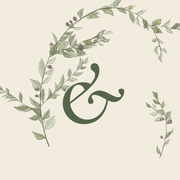
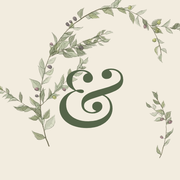
Matrimonio: icona Ghirlanda con & classica
Claude-Session: https://claude.ai/code/session_01PeGwiVQ1FTNgGqKk5br4XB

Changed region(s): [[0.3056, 0.3333, 0.6944, 0.7222]]

diff --git a/matrimonio/index.html b/matrimonio/index.html
@@ -8,10 +8,10 @@
 <meta name="apple-mobile-web-app-title" content="Matrimonio">
 <meta name="apple-mobile-web-app-status-bar-style" content="default">
 <meta name="theme-color" content="#F2ECDF">
-<link rel="apple-touch-icon" href="apple-touch-icon.png?v=3">
-<link rel="icon" type="image/png" href="icon-192.png?v=3">
+<link rel="apple-touch-icon" href="apple-touch-icon.png?v=4">
+<link rel="icon" type="image/png" href="icon-192.png?v=4">
 <link rel="manifest" href="manifest.webmanifest">
-<meta name="app-version" content="20261116121500">
+<meta name="app-version" content="20261116122500">
 <title>Conti del Matrimonio</title>
 <link rel="preconnect" href="https://fonts.googleapis.com">
 <link rel="preconnect" href="https://fonts.gstatic.com" crossorigin>
